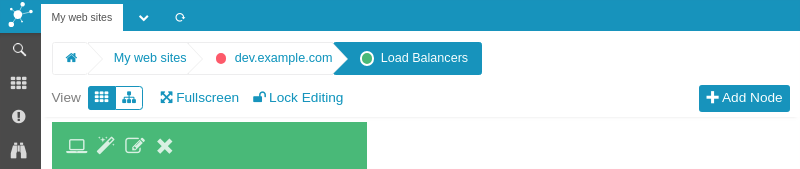
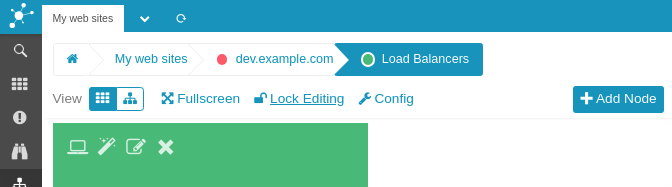
Update breadcrumb documentation

Changed region(s): [[0.0, 0.0, 1.0, 1.0], [0.8438, 0.4438, 1.0, 0.6805]]

diff --git a/doc/12-Web-Components-Breadcrumb.md b/doc/12-Web-Components-Breadcrumb.md
@@ -15,7 +15,7 @@ highlighted, as they are links pointing to either the root level when clicking
 on the *Configuration Node* itself or to the corresponding *Business Process Node*.
 
 All but the last section, showing your current position in the tree. Even if
-not being highlighted, it is still a link an can be clicked in case you neeed
+not being highlighted, it is still a link an can be clicked in case you need
 so.
 
 In case you're showing some related details in a split-screen view of *Icinga
@@ -53,11 +53,11 @@ feature.
 
 When clicking `Unlock`, additional actions are shown. One of them is immediately
 shown next to the `Unlock` link and reads `Config`. It allows you to reach Configuration
-settings for the your currently loaded *Business Process Configutation*:
+settings for the your currently loaded *Business Process Configuration*:
 
 ![Unlocked config](screenshot/12_web-components_breadcrumb/1204_unlocked_config.png)
 
-But there is more. When unlocked, all nodes provide links allowing to modify or
+But there is more. When unlocked, all nodes provide links allowing you to modify or
 to delete them. Host/Service Nodes now allow you to simulate a specific state.
 
 Other main actions
